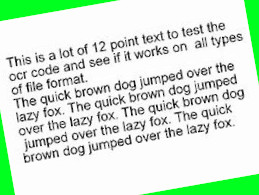
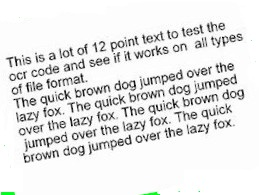
rotation added but needed fully testing and debugging and at the moment

diff --git a/TesseractOCRPlugin (.NET Standard)/Deskew/Deskew.cs b/TesseractOCRPlugin (.NET Standard)/Deskew/Deskew.cs
@@ -1,4 +1,6 @@
 using System;
+using System.Diagnostics;
+using System.Diagnostics.Tracing;
 using Emgu.CV;
 using Emgu.CV.CvEnum;
 using Emgu.CV.Structure;
@@ -21,9 +23,9 @@ namespace TesseractOCRPlugin__.Net_Standard_.Deskew
             LineSegment2D[] lines = CvInvoke.HoughLinesP(
                gray,
                1, //Distance resolution in pixel-related units
-               Math.PI / 45.0, //Angle resolution measured in radians.
+               Math.PI / 360, //Angle resolution measured in radians.
                20, //threshold
-               30, //min Line width
+               3, //min Line width
                10); //gap between lines
 
             double angle = 0.0;
@@ -36,18 +38,44 @@ namespace TesseractOCRPlugin__.Net_Standard_.Deskew
             // Get the average angle in degrees
             angle = angle / lines.Length * 180.0 / Math.PI;
 
-            //// Create a rotation matrix
-            //Mat rotMat = new Mat();
-            //CvInvoke.GetRotationMatrix2D(new CenterSpace(), angle, 1.0, rotMat);
-
-            //// Rotate the image
-            //Mat dst = new Mat();
-            //CvInvoke.WarpAffine(src, dst, rotMat, src.Size);
-
-            //// Save the deskewed image
-            //CvInvoke.Imwrite("path_to_output_image", dst);
-
             return angle;
+        }
+
+        public AnyBitmap DeskewImage(AnyBitmap image)
+        {
+            // Load the image
+
+            Mat src = AnyBitmapExenstion.GetMatFromAnyBitmap(image);
+            // Convert to grayscale
+            Mat gray = new Mat();
+            CvInvoke.CvtColor(src, gray, ColorConversion.Bgr2Gray);
+
+            // Use Hough transform to detect the skewed line
+            LineSegment2D[] lines = CvInvoke.HoughLinesP(
+               gray,
+               1, //Distance resolution in pixel-related units
+               Math.PI / 360, //Angle resolution measured in radians.
+               20, //threshold
+               3, //min Line width
+               10); //gap between lines
+
+            double angle = 0.0;
+
+            foreach (LineSegment2D line in lines)
+            {
+                angle += Math.Atan2(line.P2.Y - line.P1.Y, line.P2.X - line.P1.X);
+            }
+
+            // Get the average angle in degrees
+            angle = angle / lines.Length * 180.0 / Math.PI;
+
+            Mat rotated = gray;
+
+            Image<Bgr, byte> orignalimage = rotated.ToImage<Bgr, byte>(); ;
+            Debug.Print("angle detected was: " + angle);
+            //Image<Bgr, byte> rotatedImage = orignalimage.Rotate(angle, new Bgr(255, 255, 255));
+            Image<Bgr, byte> rotatedImage = orignalimage.Rotate(angle, new Bgr(255, 255, 255));
+            return rotatedImage.ToBitmap<Bgr, byte>();
         }
     }
 }

diff --git a/TesseractOCRPlugin (.NET Standard)/IronImageProc.cs b/TesseractOCRPlugin (.NET Standard)/IronImageProc.cs
@@ -5,6 +5,7 @@ using System.IO;
 using SixLabors.ImageSharp.Formats.Png;
 using SixLabors.ImageSharp.Formats;
 using TesseractOCRPlugin__.Net_Standard_.Deskew;
+using SixLabors.ImageSharp;
 
 namespace IronImageProcessing
 {
@@ -27,14 +28,18 @@ namespace IronImageProcessing
         private static AnyBitmap Deskewimage(SixLabors.ImageSharp.Image image)
         {
             Deskew cVDeskew = new Deskew();
-            double Angle = cVDeskew.GetDeskewAngle(image);
-            image.Mutate(x => x.Rotate((float)Angle));
+            //double Angle = cVDeskew.GetDeskewAngle(image);
+            //image.SaveAsBmp(new FileStream(@"D:\OCR\TestInput.bmp", FileMode.Create, FileAccess.Write, FileShare.ReadWrite));
+            //Angle = Angle * -1;
+            //image.Mutate(x => x.Rotate((float)Angle));
+            image = cVDeskew.DeskewImage(image);
+            //image.SaveAsBmp(new FileStream(@"D:\OCR\Testoutput.bmp", FileMode.Create, FileAccess.Write, FileShare.ReadWrite));
             return image;
         }
 
         public static SixLabors.ImageSharp.Image ImageProcessing(SixLabors.ImageSharp.Image SourceImage, int Zoomlevel)
         {
-            SourceImage = Grayscaleimage(SourceImage);
+            // SourceImage = Grayscaleimage(SourceImage);
 
             if (Zoomlevel != 1)
             {
@@ -46,7 +51,7 @@ namespace IronImageProcessing
 
             //Mat mat = Mat.FromArray(memoryStream.ToArray());
 
-            Deskewimage(SourceImage);
+            SourceImage = Deskewimage(SourceImage);
 
             return SourceImage;
         }

diff --git a/TesseractPluginTest (.Net Standard)/TesseractTest.cs b/TesseractPluginTest (.Net Standard)/TesseractTest.cs
@@ -38,5 +38,26 @@ namespace TesseractPluginTest
 
             Assert.AreEqual(expectedtext.Replace(" ", "").Replace(Environment.NewLine, ""), text.Replace(" ", "").Replace("\n", ""), "OCR doesn't match");
         }
+
+        [TestMethod]
+        public void SkewTest()
+        {
+            string expectedtext = @"This is a lot of 12 point text to test the ocr code and see if it works on all types
+    of file format.
+
+    The quick brown dog jumped over the
+    lazy fox. The quick brown dog jumped
+    over the lazy fox. The quick brown dog
+    jumped over the lazy fox. The quick
+    brown dog jumped over the lazy fox.";
+
+            TesseractOCR TessOCR = new TesseractOCR("eng", TesseractOCR.Quality.High);
+
+            string text = TessOCR.OCRimage(startupPath + @"\Images\text10anticlockwise.jpg");
+            Trace.WriteLine("Output of OCR was:");
+            Trace.WriteLine(text);
+
+            Assert.AreEqual(expectedtext.Replace(" ", "").Replace(Environment.NewLine, ""), text.Replace(" ", "").Replace("\n", ""), "OCR doesn't match");
+        }
     }
 }

diff --git a/TesseractOCRPlugin (.NET Standard)/TesseractOCR.cs b/TesseractOCRPlugin (.NET Standard)/TesseractOCR.cs
@@ -191,8 +191,8 @@ namespace TesseractOCRPlugin
             //post process the image
 
             ImageToOCR = IronImageProc.ImageProcessing(ImageToOCR, Zoomlevel);
-            //Convert to Tesseract format
 
+            //Convert to Tesseract format
             //AnyBitmap tempbitmap = ImageToOCR;
             //byte[] ImgByte = tempbitmap.ExportBytes();
 
